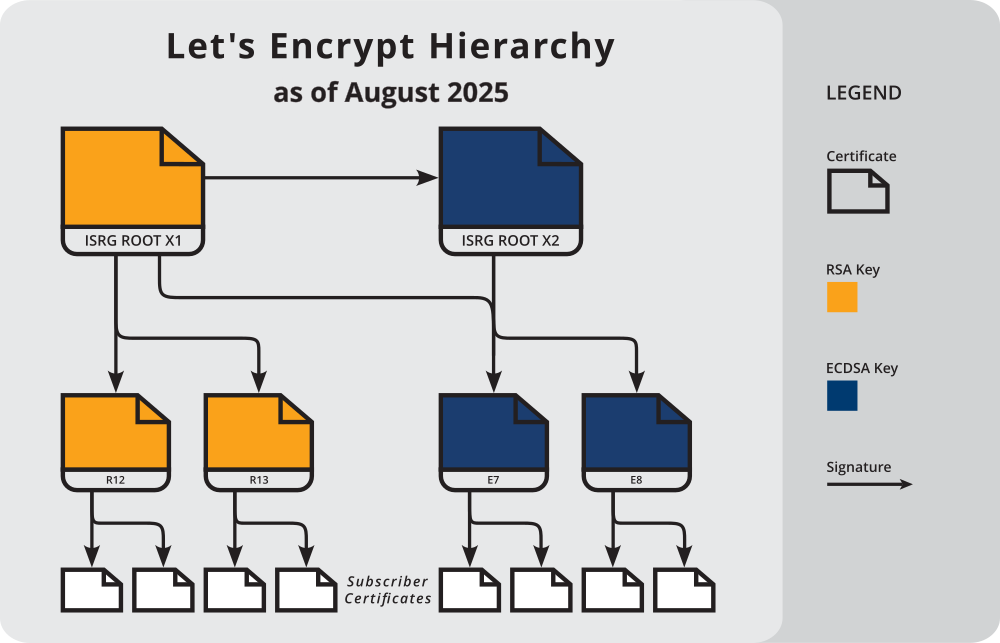
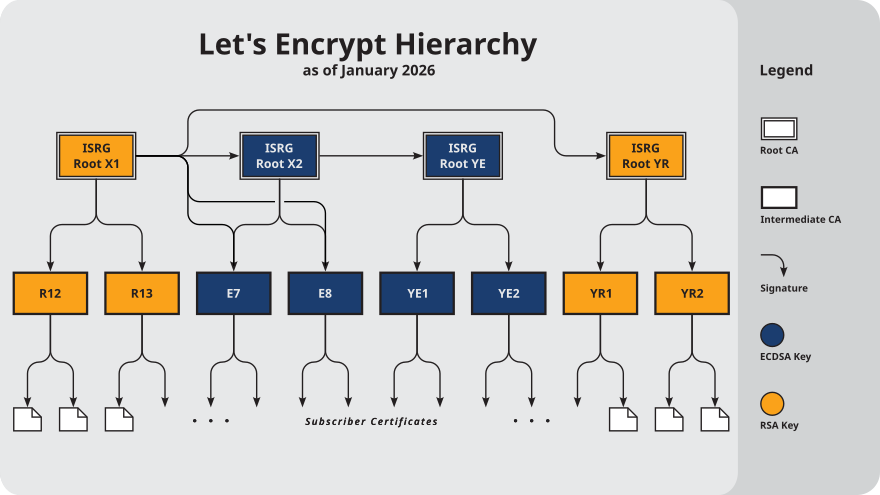
Update Certificates doc to show issuance from Gen Y hierarchy (#2068)
Move YE1, YE2, YR1, and YR2 from the "upcoming" section to the "active"
section, and describe which intermediates are used for which profiles in
the paragraph at the top of that section. Update the hierarchy diagram
to visually show both the old and new roots and intermediates. Provide
two different sizes of the diagram, so that readers get a reasonable
version embedded in the article itself but can click for a much larger
version.

diff --git a/content/en/certificates.md b/content/en/certificates.md
@@ -2,13 +2,13 @@
 title: Chains of Trust
 linkTitle: Chains of Trust (Root and Intermediate Certificates)
 slug: certificates
-lastmod: 2025-11-20
+lastmod: 2026-01-07
 show_lastmod: 1
 ---
 
 This page describes all of the current and relevant historical Certification Authorities operated by Let's Encrypt. Note that a CA is most correctly thought of as a key and a name: any given CA may be represented by _multiple_ certificates which all contain the same Subject and Public Key Information. In such cases, we have provided the details of all certificates which represent the CA. If you're looking for the Trust Anchor IDs associated with these CAs, see our page on [Object Identifiers](/docs/oids).
 
-[![ISRG Certificate Hierarchy Diagram, as of August 2025](/images/isrg-hierarchy.png)](/images/isrg-hierarchy.png)
+[![ISRG Certificate Hierarchy Diagram, as of January 2026](/images/isrg-hierarchy.png)](/images/isrg-hierarchy-full.png)
 
 # Root CAs
 
@@ -57,7 +57,7 @@ For additional information on the compatibility of our root certificates with va
 
 # Subordinate (Intermediate) CAs
 
-We currently maintain four intermediates in active rotation. Subscriber certificates containing an ECDSA public key will be issued from one of the ECDSA intermediates; similarly, Subscriber certificates containing an RSA public key will be issued from one of the RSA intermediates.
+We currently maintain eight intermediates in active rotation. Subscriber certificates containing an ECDSA public key will be issued from one of the ECDSA intermediates; similarly, Subscriber certificates containing an RSA public key will be issued from one of the RSA intermediates. Subscriber certificates issued under the "classic" and "tlsclient" [profiles](/docs/profiles) will be issued from one of the first four intermediates listed (E7 through R13); conversely, Subscriber certificates issued under the "tlsserver" and "shortlived" profiles will be issued from one of the latter four intermediates (YE1 through YR2).
 
 All intermediate certificate Subjects have a Country field of `C = US`.
 
@@ -87,6 +87,30 @@ All intermediate certificate Subjects have a Country field of `C = US`.
   * Valid until: 2027-03-12
   * CA details: [crt.sh](https://crt.sh/?caid=295817), [issued certs](https://crt.sh/?Identity=%25&iCAID=295817)
   * Certificate details (signed by ISRG Root X1): [crt.sh](https://crt.sh/?id=12396132902), [der](/certs/2024/r13.der), [pem](/certs/2024/r13.pem), [txt](/certs/2024/r13.txt)
+* **Let's Encrypt YE1**
+  * Subject: `O = Let's Encrypt, CN = YE1`
+  * Key type: `ECDSA P-384`
+  * Valid until: 2028-09-02
+  * CA details: [crt.sh](https://crt.sh/?caid=432952), [issued certs](https://crt.sh/?Identity=%25&iCAID=432952)
+  * Certificate details: [der](/certs/gen-y/int-ye1.der), [pem](/certs/gen-y/int-ye1.pem), [txt](/certs/gen-y/int-ye1.txt)
+* **Let's Encrypt YE2**
+  * Subject: `O = Let's Encrypt, CN = YE2`
+  * Key type: `ECDSA P-384`
+  * Valid until: 2028-09-02
+  * CA details: [crt.sh](https://crt.sh/?caid=431054), [issued certs](https://crt.sh/?Identity=%25&iCAID=431054)
+  * Certificate details: [der](/certs/gen-y/int-ye2.der), [pem](/certs/gen-y/int-ye2.pem), [txt](/certs/gen-y/int-ye2.txt)
+* **Let's Encrypt YR1**
+  * Subject: `O = Let's Encrypt, CN = YR1`
+  * Key type: `RSA 2048`
+  * Valid until: 2028-09-02
+  * CA details: [crt.sh](https://crt.sh/?caid=432476), [issued certs](https://crt.sh/?Identity=%25&iCAID=432476)
+  * Certificate details: [der](/certs/gen-y/int-yr1.der), [pem](/certs/gen-y/int-yr1.pem), [txt](/certs/gen-y/int-yr1.txt)
+* **Let's Encrypt YR2**
+  * Subject: `O = Let's Encrypt, CN = YR2`
+  * Key type: `RSA 2048`
+  * Valid until: 2028-09-02
+  * CA details: [crt.sh](https://crt.sh/?caid=432477), [issued certs](https://crt.sh/?Identity=%25&iCAID=432477)
+  * Certificate details: [der](/certs/gen-y/int-yr2.der), [pem](/certs/gen-y/int-yr2.pem), [txt](/certs/gen-y/int-yr2.txt)
 
 Click below for details on additional intermediates which are not part of the active issuance hierarchy:
 
@@ -108,44 +132,12 @@ These intermediate CAs have currently-valid certificates, but are not being issu
   * Valid until: 2027-03-12
   * CA details: [crt.sh](https://crt.sh/?caid=295818), [issued certs](https://crt.sh/?Identity=%25&iCAID=295818)
   * Certificate details (signed by ISRG Root X1): [crt.sh](https://crt.sh/?id=12396132903), [der](/certs/2024/r14.der), [pem](/certs/2024/r14.pem), [txt](/certs/2024/r14.txt)
-
-</details>
-
-<details>
-<summary>Upcoming</summary>
-
-These intermediate CAs were issued in 2025, and we expect to begin issuing from them in 2026.
-
-* **Let's Encrypt YE1**
-  * Subject: `O = Let's Encrypt, CN = YE1`
-  * Key type: `ECDSA P-384`
-  * Valid until: 2028-09-02
-  * CA details: [crt.sh](https://crt.sh/?caid=432952), [issued certs](https://crt.sh/?Identity=%25&iCAID=432952)
-  * Certificate details: [der](/certs/gen-y/int-ye1.der), [pem](/certs/gen-y/int-ye1.pem), [txt](/certs/gen-y/int-ye1.txt)
-* **Let's Encrypt YE2**
-  * Subject: `O = Let's Encrypt, CN = YE2`
-  * Key type: `ECDSA P-384`
-  * Valid until: 2028-09-02
-  * CA details: [crt.sh](https://crt.sh/?caid=431054), [issued certs](https://crt.sh/?Identity=%25&iCAID=431054)
-  * Certificate details: [der](/certs/gen-y/int-ye2.der), [pem](/certs/gen-y/int-ye2.pem), [txt](/certs/gen-y/int-ye2.txt)
 * **Let's Encrypt YE3**
   * Subject: `O = Let's Encrypt, CN = YE3`
   * Key type: `ECDSA P-384`
   * Valid until: 2028-09-02
   * CA details: [crt.sh](https://crt.sh/?caid=432914), [issued certs](https://crt.sh/?Identity=%25&iCAID=432914)
   * Certificate details: [der](/certs/gen-y/int-ye3.der), [pem](/certs/gen-y/int-ye3.pem), [txt](/certs/gen-y/int-ye3.txt)
-* **Let's Encrypt YR1**
-  * Subject: `O = Let's Encrypt, CN = YR1`
-  * Key type: `RSA 2048`
-  * Valid until: 2028-09-02
-  * CA details: [crt.sh](https://crt.sh/?caid=432476), [issued certs](https://crt.sh/?Identity=%25&iCAID=432476)
-  * Certificate details: [der](/certs/gen-y/int-yr1.der), [pem](/certs/gen-y/int-yr1.pem), [txt](/certs/gen-y/int-yr1.txt)
-* **Let's Encrypt YR2**
-  * Subject: `O = Let's Encrypt, CN = YR2`
-  * Key type: `RSA 2048`
-  * Valid until: 2028-09-02
-  * CA details: [crt.sh](https://crt.sh/?caid=432477), [issued certs](https://crt.sh/?Identity=%25&iCAID=432477)
-  * Certificate details: [der](/certs/gen-y/int-yr2.der), [pem](/certs/gen-y/int-yr2.pem), [txt](/certs/gen-y/int-yr2.txt)
 * **Let's Encrypt YR3**
   * Subject: `O = Let's Encrypt, CN = YR3`
   * Key type: `RSA 2048`